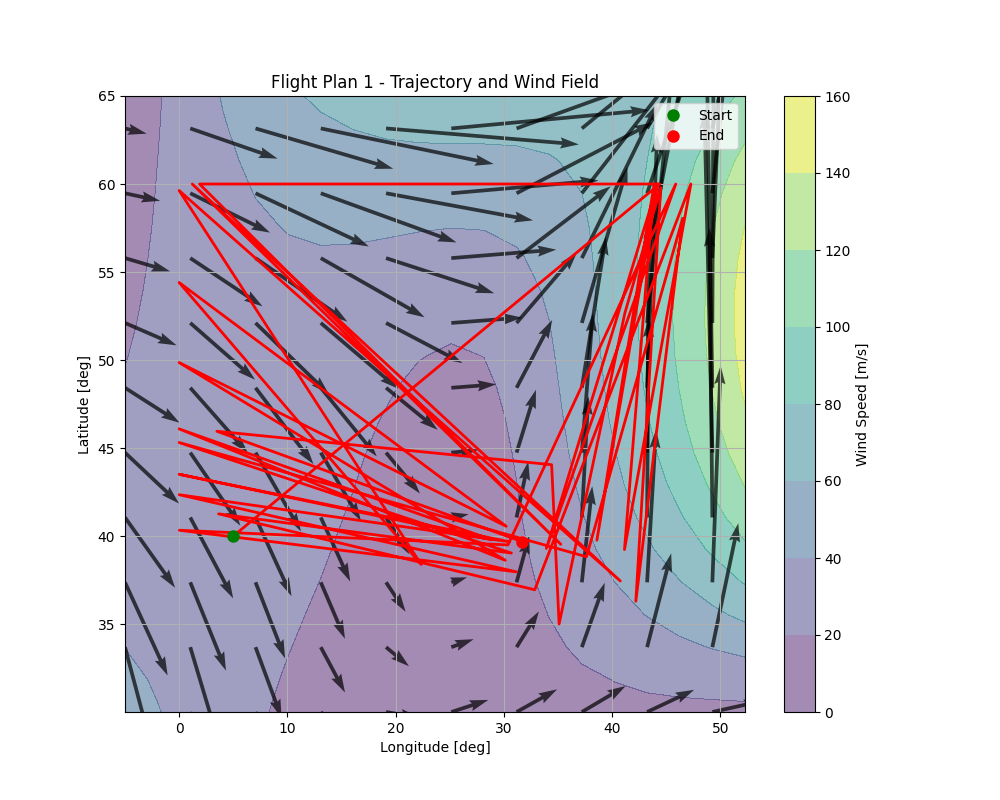
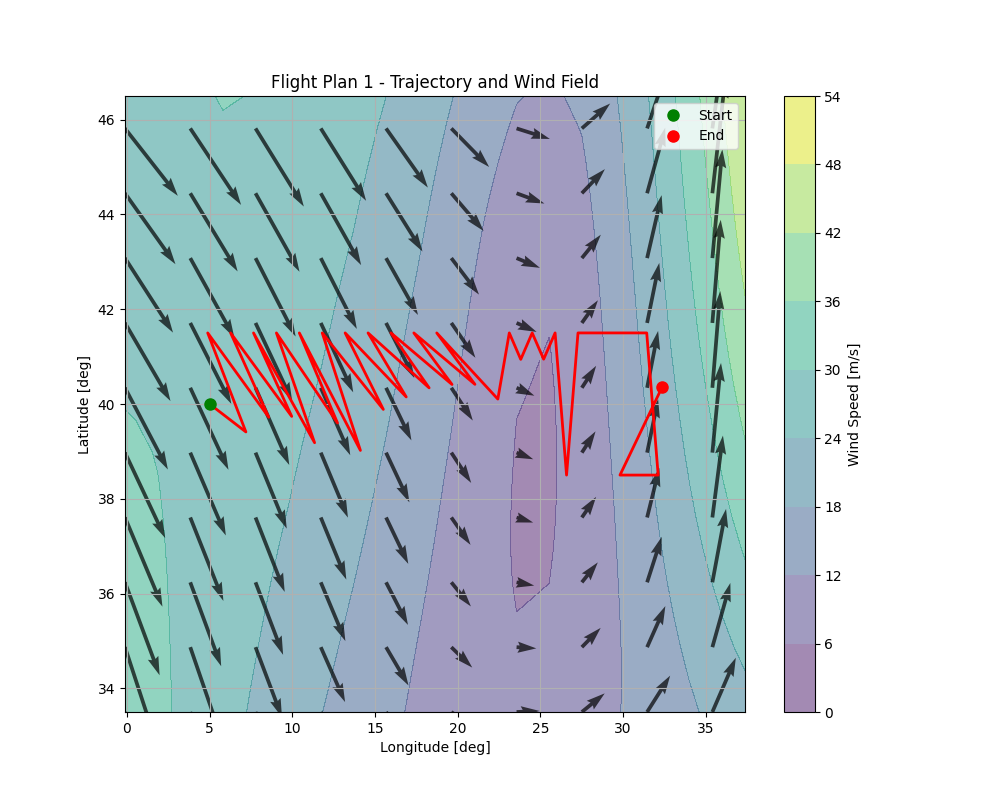
v4

diff --git a/PMP.py b/PMP.py
@@ -107,93 +107,100 @@ class DirectCollocation:
         
         # Estimate time in seconds (assuming ~800 km/h cruise speed)
         self.tf_guess = dist * 4.5  # More realistic estimate
-        
+            
     def setup_optimization(self):
         n = self.n_nodes
-        n_vars = n * (6 + 3) + 1  # states + controls + tf
+        n_vars = n * (6 + 3) + 1
         x_guess = np.zeros(n_vars)
 
-        # Make better initial guesses
+        # Calculate direct path parameters
+        dx = self.xf[0] - self.x0[0]
+        dy = self.xf[1] - self.x0[1]
+        dh = self.xf[2] - self.x0[2]
+        
+        # Direct heading
+        target_heading = np.arctan2(dy, dx)
+        if target_heading < 0:
+            target_heading += 2 * np.pi
+        
+        # FORCE trajectory to follow direct path closely
         for i in range(n):
             idx_start = i * 9
             alpha = i / (n - 1)
             
-            # State variables
-            # Linear interpolation for position and altitude
-            for j in range(3):
-                x_guess[idx_start + j] = (1 - alpha) * self.x0[j] + alpha * self.xf[j]
+            # State variables - STICK TO DIRECT PATH
+            x_guess[idx_start] = self.x0[0] + alpha * dx
+            x_guess[idx_start + 1] = self.x0[1] + alpha * dy
+            x_guess[idx_start + 2] = self.x0[2] + alpha * dh
             
-            # Speed varies smoothly (slight decrease during climb, etc.)
-            x_guess[idx_start + 3] = self.x0[3] * (1 - 0.05 * np.sin(np.pi * alpha))
+            # Constant speed
+            x_guess[idx_start + 3] = self.x0[3]
             
-            # Heading turns gradually toward destination
-            target_heading = np.arctan2(self.xf[1] - self.x0[1], self.xf[0] - self.x0[0])
-            if target_heading < 0:
-                target_heading += 2 * np.pi
+            # CONSTANT heading towards target (no turning!)
+            x_guess[idx_start + 4] = target_heading
             
-            initial_heading = self.x0[4]
-            diff = target_heading - initial_heading
-            # Ensure we take the shorter path
-            if diff > np.pi:
-                diff -= 2 * np.pi
-            elif diff < -np.pi:
-                diff += 2 * np.pi
-                
-            x_guess[idx_start + 4] = initial_heading + alpha * diff
+            # Linear mass decrease
+            x_guess[idx_start + 5] = self.x0[5] * (1 - 0.03 * alpha)
             
-            # Mass decreases gradually
-            x_guess[idx_start + 5] = self.x0[5] * (1 - 0.05 * alpha)
-            
-            # Control variables with smoother profile
-            # Flight path angle - slight climb then descent
-            x_guess[idx_start + 6] = 0.05 * np.sin(np.pi * alpha)
-            
-            # Bank angle - varies to turn toward destination
-            if i < n/3 or i > 2*n/3:
-                # Bank more at beginning and end for turns
-                turn_factor = 0.2 * np.sin(3 * np.pi * alpha)
-                if diff < 0:
-                    turn_factor *= -1
-                x_guess[idx_start + 7] = turn_factor
+            # Control variables - MINIMAL MANEUVERING
+            # Very small climb/descent
+            if dh != 0:
+                x_guess[idx_start + 6] = np.sign(dh) * 0.01  # Tiny climb/descent
             else:
-                x_guess[idx_start + 7] = 0.0
+                x_guess[idx_start + 6] = 0.0
             
-            # Throttle - higher during climb, lower during cruise
-            if i < n/5:
-                x_guess[idx_start + 8] = 0.85  # Initial climb
-            elif i > 4*n/5:
-                x_guess[idx_start + 8] = 0.6   # Final approach
-            else:
-                x_guess[idx_start + 8] = 0.7   # Cruise
-
-        # Final time estimate
+            # NO BANK ANGLE (straight flight)
+            x_guess[idx_start + 7] = 0.0
+            
+            # Constant cruise throttle
+            x_guess[idx_start + 8] = 0.65
+        
+        # Estimate direct flight time more accurately
+        direct_dist_km = np.sqrt(dx**2 + dy**2) * 111  # Approx km
+        cruise_speed_kmh = self.x0[3] * 3.6  # Convert m/s to km/h
+        self.tf_guess = (direct_dist_km / cruise_speed_kmh) * 3600  # Convert to seconds
+        
         x_guess[-1] = self.tf_guess
 
-        # Define bounds with more realistic constraints
+        # MUCH TIGHTER bounds to force straight trajectory
         bounds = []
         for i in range(n):
-            # State bounds
-            bounds.append((0, 60))  # Longitude
-            bounds.append((35, 60))  # Latitude
-            bounds.append((5000, 12000))  # Altitude
-            bounds.append((150, 270))  # Speed (m/s) - more realistic max
-            bounds.append((-2*np.pi, 2*np.pi))  # Heading
-            bounds.append((self.x0[5] * 0.8, self.x0[5]))  # Mass
+            # Allow small deviations from direct path only
+            expected_x = self.x0[0] + (i / (n - 1)) * dx
+            expected_y = self.x0[1] + (i / (n - 1)) * dy
+            expected_h = self.x0[2] + (i / (n - 1)) * dh
             
-            # Control bounds
-            bounds.append(self.gamma_bounds)  # Flight path angle
-            bounds.append(self.mu_bounds)  # Bank angle
-            bounds.append(self.delta_bounds)  # Throttle
+            # Position bounds - very tight around direct path
+            bounds.append((expected_x - 1.5, expected_x + 1.5))  # ±1.5 deg longitude
+            bounds.append((expected_y - 1.5, expected_y + 1.5))  # ±1.5 deg latitude
+            bounds.append((expected_h - 500, expected_h + 500))  # ±500m altitude
+            
+            # Speed bounds
+            bounds.append((self.x0[3] * 0.9, self.x0[3] * 1.1))  # ±10% speed
+            
+            # Heading bounds - tight around target heading
+            bounds.append((target_heading - np.pi/8, target_heading + np.pi/8))  # ±22.5°
+            
+            # Mass bounds
+            bounds.append((self.x0[5] * 0.85, self.x0[5]))
+            
+            # Control bounds - VERY RESTRICTIVE
+            bounds.append((-0.05, 0.05))         # Flight path: ±2.9°
+            bounds.append((-np.pi/20, np.pi/20)) # Bank angle: ±9°
+            bounds.append((0.4, 0.8))            # Throttle
+        
+        # Time bounds
+        bounds.append((self.tf_guess * 0.9, self.tf_guess * 1.1))
 
-        # Flight time bounds
-        min_time = self.tf_guess * 0.7  # Allow some flexibility
-        max_time = self.tf_guess * 1.5
-        bounds.append((min_time, max_time))
-
-        # Number of constraints: continuity + boundary
-        n_constraints = 6 * (n-1) + 6
+        # Calculate number of constraints
+        n_constraints = 6 + 6*(n-1) + 3  # Initial + dynamics + terminal
+        n_constraints += (n-2)           # Path constraints
+        n_constraints += 2*(n-1)         # Heading rate constraints  
+        n_constraints += 2*(n-2)         # Heading acceleration constraints
+        n_constraints += (n-1)           # Segment direction constraints
+        
         return x_guess, bounds, n_constraints
-    
+        
     def objective_function(self, x):
         n = self.n_nodes
         tf = x[-1]
